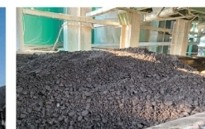
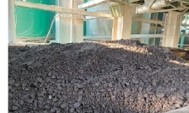
생산·시공 사진 잘림 흔적 제거, 흰 테두리 여백 통일, 각주 가운데 정렬
- 원본 이미지 크롭 여유를 넉넉히 늘려 인접 사진 경계선/모서리 잔여물
  제거 (플랜트 생산, 표층 포설 사진 등)
- 모든 사진에 동일한 흰색 배경 + 4px 패딩 프레임 적용해 좌우 여백을
  일정하게 통일 (2연속 사진 포함)
- "1차·2차 집진장치..." 각주 문구 가운데 정렬

diff --git a/css/style.css b/css/style.css
@@ -723,23 +723,28 @@ h3.pavement-title:first-of-type { margin-top: 8px; }
   margin-top: 14px;
   font-size: 14px;
   color: var(--ink-soft);
+  text-align: center;
 }
 
 /* 순환 상온 아스팔트 혼합물 생산 및 시공 순서 (사진 + 화살표, 한 줄 유지) */
 .photo-flow { display: flex; flex-wrap: nowrap; align-items: flex-start; gap: 6px; margin-top: 8px; }
 .photo-step { flex: 1 1 0; min-width: 0; text-align: center; }
-.photo-step figure {
+.photo-step figure,
+.photo-step-pair-imgs figure {
+  background: var(--card-bg);
   border-radius: 10px;
   overflow: hidden;
   border: 1px solid var(--border);
+  padding: 4px;
 }
-.photo-step img { width: 100%; height: 100px; object-fit: cover; display: block; }
+.photo-step img { width: 100%; height: 100px; object-fit: cover; display: block; border-radius: 6px; }
 .photo-step p { margin-top: 8px; font-size: 12px; font-weight: 600; color: var(--ink-soft); line-height: 1.4; }
 .process-arrow { flex: 0 0 auto; width: 20px; height: 14px; color: var(--accent-dark); margin-top: 42px; }
 
 .photo-step-pair { flex: 2 1 0; }
 .photo-step-pair-imgs { display: flex; gap: 4px; }
 .photo-step-pair-imgs figure { flex: 1 1 0; min-width: 0; }
+.photo-step-pair-imgs img { width: 100%; height: 100px; object-fit: cover; display: block; border-radius: 6px; }
 
 @media (max-width: 760px) {
   .photo-flow { flex-direction: column; gap: 10px; }
